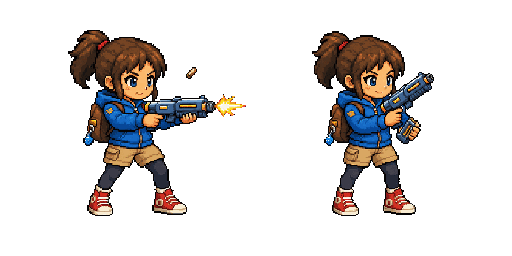
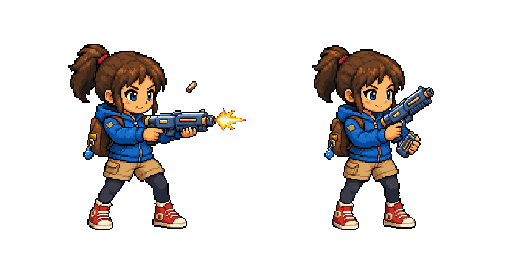
Integrate combat animations and courier zombie art

Changed region(s): [[0.125, 0.0938, 0.5, 0.9062], [0.5938, 0.125, 0.8438, 0.9062], [0.375, 0.25, 0.4062, 0.2812]]

diff --git a/docs/ASSET_MIGRATION.md b/docs/ASSET_MIGRATION.md
@@ -30,5 +30,8 @@ The source repository `Fishforgithub/tea-line-bot` is read-only. Copy only appro
 | `assets/characters/girl/girl_run_sheet.png` | Six-frame run-cycle generated from the approved identity anchor; keyed to alpha, normalized to six 256×256 cells | Integrated as the `run` animation at 10 FPS |
 | `assets/characters/girl/girl_air_sheet.png` | Two-frame airborne sheet generated from the approved identity anchor; keyed to alpha and normalized to two 256×256 cells | Integrated as velocity-driven `jump` and `fall` states |
 | `assets/characters/girl/girl_crouch.png` | Approved project-specific crouch sprite from `agent/art-production` commit `28a3b80`; identity-preserving pose normalized from the approved idle anchor; pure-magenta source keyed to alpha and normalized to a 256×256 frame with the standard feet baseline | Integrated as the grounded `crouch` animation |
+| `assets/characters/girl/girl_combat_sheet.png` | Approved project-specific sprite sheet from `agent/art-production` commit `323b967`; two 256×256 cells normalized to the standard feet baseline | Integrated as the standing `fire` and timed `reload` states |
+| `assets/characters/girl/girl_damage_sheet.png` | Approved project-specific sprite sheet from `agent/art-production` commit `cd14402`; two 256×256 cells normalized to the standard feet baseline | Integrated as the `hurt` and terminal `faint` states |
+| `assets/enemies/courier_zombie/idle.png` | Approved project-specific courier zombie sprite from `agent/art-production` commit `9a70fa2`; normalized to a 256×256 frame with the standard feet baseline | Integrated as the courier zombie `idle` presentation |
 
 No production assets have been copied from `tea-line-bot` yet.

diff --git a/README.md b/README.md
@@ -4,16 +4,16 @@ An original 2D side-scrolling run-and-gun game. A human girl fights through a zo
 
 ## Current milestone
 
-The repository contains a no-asset graybox prototype:
+The repository contains a playable vertical-slice prototype with production character animation entering integration:
 
-- keyboard movement and jumping
-- mouse aiming and shooting
-- reload and ammunition tracking
+- keyboard movement, jumping, and crouching with stance-specific collision
+- mouse aiming, shooting, and timed reload behavior
+- complete girl state set: idle, run, jump, fall, crouch, fire, reload, hurt, and faint
 - autonomous pet follow and auto-attack
-- pursuing zombies with contact attacks
+- pursuing zombies with contact attacks and an approved courier-zombie idle sprite
 - health, ammunition, defeat, and stage-clear UI
 
-All visible characters are drawn as temporary code-based pixel blocks. Production art will be imported only after movement and combat feel are approved.
+Procedural drawing remains as a fallback while production pet, enemy, effects, and environment art continues to arrive.
 
 ## Controls
 
